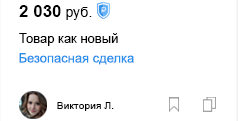
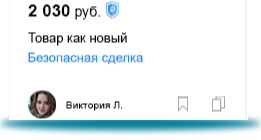
edit adaptation

Changed region(s): [[0.0, 0.6446, 1.0, 0.9917], [0.0586, 0.2231, 0.5858, 0.5455], [0.0586, 0.0, 0.4686, 0.1736]]

diff --git a/src/style/helpers/media.scss b/src/style/helpers/media.scss
@@ -1,9 +1,18 @@
 /*==========  Desktop First Method  ==========*/
 
 /* Large Devices, Wide Screens */
-@media only screen and (max-width : 1600px) {
+@media only screen and (max-width : 1680px) {
 	.header__link-text{
 		font-size: 35px;
+	}
+	.sell-left{
+		float: left;
+		width: 80px;
+		height: 70px;
+	}
+	.sell-right{
+		float: left;
+		width: 80%;
 	}
 }
 
@@ -16,13 +25,53 @@
 		font-size: 30px;
 		line-height: 47px;
 	}
+	.sell__btn{
+		padding: 6px 15px;
+	}
 }
 
 @media only screen and (max-width : 1024px) {
 	.header__link-text{
 		font-size: 48px;
 	}
-	
+	.b-section__title{
+		margin-top: 200px;
+	}
+	.subsidiary-item-mt{
+		margin-top: 200px;
+	}
+	.top-line__logo{
+		left: 0;
+		margin-left: 57px;
+	}
+	.footer__btn{
+		font-size: 12px;
+		padding: 6px 16px;
+	}
+	.sell__btn{
+		padding: 6px 15px;
+	}
+	.surrender-item__text{
+		font-size: 14px;
+	}
+	.subsidiary-item__img{
+		float: none;
+		text-align: center;
+	}
+	.subsidiary-item__text{
+		margin-left: 64px;
+		margin-top: 12px;
+		float: none;
+		font-size: 15px;
+		margin-bottom: 10px;
+	}
+	.storage-wrapper{
+		margin-top: 200px;
+	}
+	.storage-memo__list-item{
+		font-size: 13px;
+	}
+
 }
 
 /* Medium Devices, Desktops */
@@ -49,8 +98,20 @@
 		left: 0;
 		margin-left: 57px;
 	}
+	.header__link-wrap__item-one{
+		background: url(https://fast.ulmart.ru/ns/verstka/ulmart-second/img/header-bg-1-md.jpg) top left no-repeat;
+		background-size: cover;
+		height: 300px;
+	}
+	.header__link-wrap__item-two{
+		background: url(https://fast.ulmart.ru/ns/verstka/ulmart-second/img/header-bg-2-md.jpg) top left no-repeat;
+		background-size: cover;
+		height: 300px;
+	}
 	.header__link-wrap__item-three{
-		background: url(https://fast.ulmart.ru/ns/verstka/ulmart-second/img/header-bg-3.jpg) 0% -2000% no-repeat;
+		background: url(https://fast.ulmart.ru/ns/verstka/ulmart-second/img/header-bg-2-md.jpg) top left no-repeat;
+		background-size: cover;
+		height: 300px;
 	}
 	.subsidiary-item__text{
 		float: left;
@@ -76,6 +137,9 @@
 	}
 	.storage-item__right{
 		font-size: 14px;
+	}
+	.sell-wrapper-inner-another__bg{
+		top: -70px;
 	}
 }
 
@@ -103,19 +167,18 @@
 		-ms-animation: none !important;
 		animation: none !important;
 	}
+	.header__link-text{
+		display: inline-block;
+		width: 170px;
+	}
+	.header__link-item-mod2{
+		top: 22%;
+	}
+	.header__link-item-mod3{
+		top: 22%;
+	}
 
-	.header__link-wrap__item-one{
-		background: url(https://fast.ulmart.ru/ns/verstka/ulmart-second/img/header-bg-1-md.jpg) top left no-repeat;
-		background-size: contain;
-	}
-	.header__link-wrap__item-two{
-		background: url(https://fast.ulmart.ru/ns/verstka/ulmart-second/img/header-bg-2-md.jpg) top left no-repeat;
-		background-size: contain;
-	}
-	.header__link-wrap__item-three{
-		background: url(https://fast.ulmart.ru/ns/verstka/ulmart-second/img/header-bg-2-md.jpg) top left no-repeat;
-		background-size: contain;
-	}
+	
 	.subsidiary-item__img{
 		float: none;
 		text-align: center;
@@ -126,15 +189,53 @@
 		float: none;
 		font-size: 15px;
 	}
+	.buy-wrapper{
+		margin-bottom: 40px;
+	}
 
 }
 
-@media only screen and (max-width : 600px){
-
+@media only screen and (max-width : 767px){
+	.nav{
+		display: none;
+	}
+	.b-section__title{
+		margin-top: 100px;
+	}
+	.storage-wrapper{
+		margin-top: 0;
+	}
+	.storage-item__left{
+		margin-right: 20px;
+		font-size: 28px;
+	}
+	.storage-item__right{
+		font-size: 19px;
+	}
+	.footer__btn{
+		display: inline-block;
+		margin-bottom: 20px;
+	}
+	.subsidiary-item-mt-mod{
+		margin-top: 50px;
+	}
+	.subsidiary-dn{
+		display: none;
+	}
+	a.footer__logo {
+		display: inline-block;
+		margin-bottom: 40px;
+	}
+	.social__list{
+		justify-content: flex-start;
+	}
 }
 
 /* Extra Small Devices, Phones */
 @media only screen and (max-width : 480px) {
+	.header__link-text{
+		width: 140px;
+	}
 	.top-line2{
 		z-index: 1000;
 	}
@@ -186,6 +287,7 @@
 	.deal-footnote__text{
 		float: left;
 		font-size: 10px;
+		line-height: 2;
 	}
 	.deal-section{
 		background: url(https://fast.ulmart.ru/ns/verstka/ulmart-second/img/deal-bg-mob.jpg) center center;
@@ -308,6 +410,16 @@
 	}
 	.header__link-item-mod{
 		top: 35%;
+	}
+	.storage-item__left{
+		margin-right: 5px;
+	}
+	.storage-item__left{
+		font-size: 20px;
+		margin-right: 12px;
+	}
+	.storage-item__right{
+		font-size: 15px;
 	}
 
 

diff --git a/src/style/sections/panel.scss b/src/style/sections/panel.scss
@@ -90,10 +90,15 @@
 		// float: left;
 		margin-right: 20px;
 		position: relative;
+		float: left;
+		width: 80px;
+		height: 70px;
 	}
 	&-right{
 		// float: left;
 		margin-top: 5px;
+		float: left;
+		width: 80%;
 	}
 	&__picture{
 		display: block;

diff --git a/src/style/sections/deal-section.scss b/src/style/sections/deal-section.scss
@@ -32,5 +32,18 @@
 			color: #000000;
 		}
 	}
-	
+}
+
+.sell-wrapper-inner-another{
+	z-index: 1;
+}
+
+.sell-wrapper-inner-another__bg{
+	position: absolute;
+	z-index: -1;
+	left: -60px;
+	img{
+		width: 311px;
+		height: 300px;
+	}
 }

diff --git a/src/style/sections/diagnostics-section.scss b/src/style/sections/diagnostics-section.scss
@@ -50,6 +50,7 @@
 				border-radius: 100px;
 				max-width: 349px;
 				padding: 5px 0 5px 23px;
+				box-shadow: 0 2px 4px 0 rgba(0, 0, 0, 0.2);
 				@include clearfix;
 				&__img{
 					float: left;
